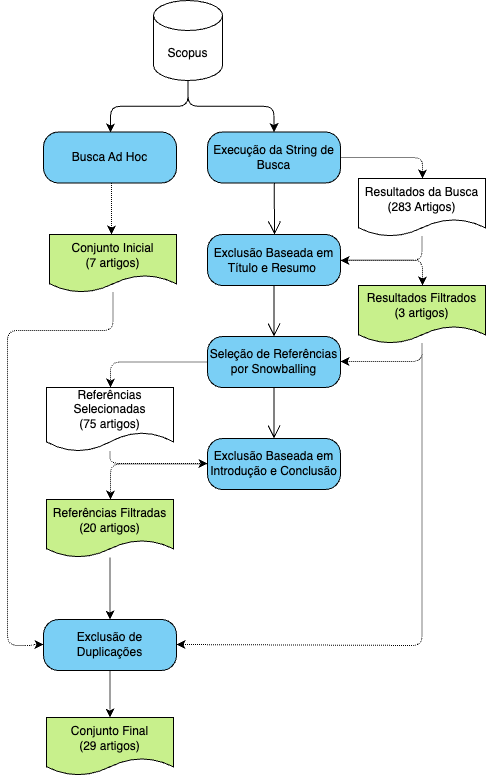
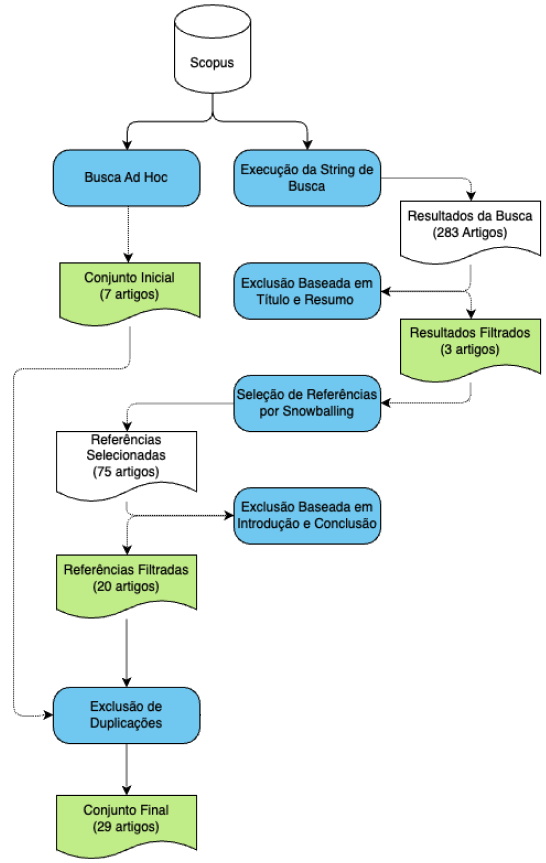
Ajustes reescrita nova fase do trabalho

Changed region(s): [[0.0308, 0.0, 1.0, 1.0], [0.0, 0.4324, 0.1232, 0.8649], [0.3388, 0.8031, 0.3696, 0.8649]]

diff --git a/editaveis/resumo.tex b/editaveis/resumo.tex
@@ -1,6 +1,6 @@
 \begin{resumo}
 
-Com o avanço das práticas de entrega contínua, influenciadas pela metodologia \textit{Lean Startup}, as empresas de \textit{software} têm reduzido cada vez mais o tempo entre os lançamentos de novas versões de seus produtos. Em muitas organizações, o \textit{feedback} dos usuários é obtido de forma lenta e pouco sistematizada, o que dificulta uma avaliação precisa do valor entregue pelas funcionalidades desenvolvidas. Nesse contexto, a prática da Experimentação Contínua tem se tornado um padrão nas grandes empresas, utilizando experimentos científicos para validar o produto com base em dados empíricos de uso de suas plataformas. Isso auxilia os gerentes de produto a tomarem decisões fundamentadas em dados, garantindo a qualidade do \textit{software} e o alinhamento com as necessidades reais dos usuários. Considerando esse cenário, este estudo visa compreender as atividades e técnicas necessárias para a sistematização de um processo de Desenvolvimento Orientado a Dados e, com base nessa compreensão, planejar a condução de um Estudo de Caso em uma organização privada brasileira, com o objetivo de aplicar esse processo e observar seu desempenho no apoio à tomada de decisões entre diferentes versões de um produto de \textit{software}.
+Com o avanço das práticas de entrega contínua, influenciadas pela metodologia \textit{Lean Startup}, as empresas de \textit{software} têm reduzido cada vez mais o tempo entre os lançamentos de novas versões de seus produtos. Em muitas organizações, o \textit{feedback} dos usuários é obtido de forma lenta e pouco sistematizada, o que dificulta uma avaliação precisa do valor entregue pelas funcionalidades desenvolvidas. Nesse contexto, a prática da Experimentação Contínua tem se tornado um padrão nas grandes empresas, utilizando experimentos científicos para validar o produto com base em dados empíricos de uso de suas plataformas. Isso auxilia os gerentes de produto a tomarem decisões fundamentadas em dados, garantindo a qualidade do \textit{software} e o alinhamento com as necessidades reais dos usuários. Considerando esse cenário, este estudo teve como objetivo compreender as atividades e técnicas necessárias para a sistematização de um processo de Desenvolvimento Orientado a Dados. Com base nessa compreensão, foi planejada e conduzida a execução de um Estudo de Caso em uma organização privada brasileira, com o intuito de aplicar esse processo e avaliar seu desempenho no apoio à tomada de decisões entre diferentes versões de um produto de software. São apresentados o planejamento e os resultados do estudo, demonstrando como o processo foi executado, suas implicações, limitações, ameaças à validade e oportunidades para trabalhos futuros.
 
 \vspace{\onelineskip}
 

diff --git a/editaveis/abstract.tex b/editaveis/abstract.tex
@@ -1,7 +1,7 @@
 \begin{resumo}[Abstract]
  \begin{otherlanguage*}{english}
 
-With the advancement of continuous delivery practices influenced by the \textit{Lean Startup} methodology, software companies have been shortening their development cycles, releasing new versions of their products at an increasingly rapid pace. In many organizations, the user feedback process is often slow and unsystematic, making it difficult to accurately assess the value delivered by the developed features. In this context, the practice of Continuous Experimentation is becoming a standard in large companies, utilizing controlled experiments to validate products based on empirical usage data. This helps product managers make data-driven decisions, ensuring the quality and alignment of the software with users' actual needs. Considering this scenario, this study aims to understand the activities and techniques necessary to systematize a Data-Driven Development process. Based on this understanding, the study plans to conduct a Case Study in a private Brazilian organization, with the goal of applying this process and observing its performance in supporting decision-making between different versions of a software product.
+With the advancement of continuous delivery practices influenced by the \textit{Lean Startup} methodology, software companies have been shortening their development cycles, releasing new versions of their products at an increasingly rapid pace. In many organizations, the user feedback process is often slow and unsystematic, making it difficult to accurately assess the value delivered by the developed features. In this context, the practice of Continuous Experimentation is becoming a standard in large companies, utilizing controlled experiments to validate products based on empirical usage data. This helps product managers make data-driven decisions, ensuring the quality and alignment of the software with users' actual needs. In this context, this study aimed to identify the activities and techniques required to systematize a Data-Driven Development process. Basing on this understanding, a case study was designed and conducted within a private Brazilian organization. The goal was to apply this process and evaluate its effectiveness in supporting decision-making between different versions of a software product. The findings from the case study are presented, highlighting the performance of the proposed process, along with its limitations, threats to validity, and opportunities for future research.
 
 \vspace{\onelineskip}
 

diff --git a/editaveis/secao-introducao/cronograma.tex b/editaveis/secao-introducao/cronograma.tex
@@ -39,13 +39,13 @@ Esta subseção visa discriminar as atividades realizadas na primeira etapa do t
 \subsection{Atividades da Segunda Etapa}
 \label{cronograma2}
 
-Esta subseção visa apresentar as atividades planejadas para a segunda etapa deste trabalho,
+Esta subseção visa apresentar as atividades realizadas na segunda etapa deste trabalho,
 as apresentando em forma de fluxo na Figura \ref{fig:atividades_2} e as dispondo em forma de cronograma na Figura \ref{fig:cronograma_2}.
 
 \newpage
 
 \begin{figure}[h!]
-    \caption{Fluxo de Atividades Planejadas Para a Segunda Etapa da Monografia}
+    \caption{Fluxo de Atividades Realizadas na Segunda Etapa da Monografia}
     \centering
     \includegraphics[width=.9\linewidth]{figuras/atividades2.png}
     \text{Fonte: Autor}
@@ -53,7 +53,7 @@ as apresentando em forma de fluxo na Figura \ref{fig:atividades_2} e as dispondo
 \end{figure}
 
 \begin{figure}[h!]
-    \caption{Cronograma Planejado Para a Segunda Etapa da Monografia}
+    \caption{Cronograma Realizado na Segunda Etapa da Monografia}
     \centering
     \includegraphics[width=.9\linewidth]{figuras/cronograma2.png}
     \text{Fonte: Autor}

diff --git a/editaveis/proposta.tex b/editaveis/proposta.tex
@@ -1,4 +1,8 @@
-\chapter{Proposta de Estudo de Caso}
+\chapter{Estudo de Caso}
+
+Este capítulo apresenta o planejamento e a execução do estudo de caso, demonstrando como os resultados do mesmo endereçam a resposta à questão de pesquisa principal deste trabalho.
+
+\section{Proposta e Planejamento}
 \label{ch:proposta}
 
 Neste capítulo é apresentado o planejamento da fase de observação e experimentação  desta pesquisa, objeto da segunda fase deste Trabalho de Conclusão de Curso.
@@ -13,3 +17,18 @@ Neste capítulo é apresentado o planejamento da fase de observação e experime
 
 \input{editaveis/secao-proposta/instrumentacao}
 
+\section{Execução e Análise}
+
+\input{editaveis/secao-execucao/ideacao}
+
+\input{editaveis/secao-execucao/pre-estudo}
+
+\input{editaveis/secao-execucao/execucao}
+
+\input{editaveis/secao-execucao/analise}
+
+\input{editaveis/secao-execucao/coleta-opiniao}
+
+\input{editaveis/secao-execucao/resultados}
+
+\input{editaveis/secao-execucao/validade}

diff --git a/editaveis/secao-proposta/procedimentos.tex b/editaveis/secao-proposta/procedimentos.tex
@@ -1,4 +1,4 @@
-\section{Procedimentos}
+\subsection{Procedimentos}
 \label{sec:procedimentos}
 
 Neste trabalho foi proposto um processo que deve guiar o desenvolvimento durante a execução deste estudo de caso. A partir da revisão da literatura descrita em \ref{ch:revisao}, procurou-se compreender as atividades envolvidas na experimentação continua e encontrar modelos ou processos já existentes na literatura. 
@@ -31,7 +31,7 @@ Para a coleta de dados referentes aos resultados das atividades realizadas e com
 \end{figure}
 
 
-\subsection{Processo Proposto}
+\subsubsection{Processo Proposto}
 \label{subsec:fluxo}
 
 Aqui serão descritas as atividades, fases, papeis e artefatos do processo proposto. Determinadas atividades do processo são iterativas e devem/podem ser realizadas novamente caso necessário. Abaixo são descritas as atividades a serem realizadas, conforme apresentado na Figura \ref{fig:processo-novo}.

diff --git a/editaveis/condicao.tex b/editaveis/condicao.tex
@@ -9,6 +9,6 @@ Neste capítulo é apresentada uma visão geral das atividades já realizadas e 
 
 \input{editaveis/secao-condicao/proximospassos}
 
-\section{Resumo do Capítulo}
+% \section{Resumo do Capítulo}
 
-Este capítulo apresenta a condição atual das atividades deste trabalho, dos objetivos atingidos e pendentes e também as atividades a serem realizadas na próxima etapa. As Tabelas \ref{tab:atividades1} e \ref{tab:objetivos-especificos} explicitam as atividades e objetivos de acordo com sua condição e os artefatos resultados das etapas concluídas.
+% Este capítulo apresenta a condição atual das atividades deste trabalho, dos objetivos atingidos e pendentes e também as atividades a serem realizadas na próxima etapa. As Tabelas \ref{tab:atividades1} e \ref{tab:objetivos-especificos} explicitam as atividades e objetivos de acordo com sua condição e os artefatos resultados das etapas concluídas.

diff --git a/editaveis/secao-condicao/proximospassos.tex b/editaveis/secao-condicao/proximospassos.tex
@@ -1,3 +1,3 @@
-\section{Próximos Passos}
+\section{Trabalhos Futuros}
 
-Na segunda etapa, para a conclusão desta pesquisa, serão realizadas as atividades propostas no Capítulo \ref{ch:proposta}, em conjunto com os colaboradores participantes no desenvolvimento do produto sendo estudado. Finalizadas estas tarefas, os resultados obtidos serão analisados, documentados e apresentados. É planejado que esta execução siga o cronograma apresentado na Imagem \ref{fig:cronograma_2}.
+% Na segunda etapa, para a conclusão desta pesquisa, serão realizadas as atividades propostas no Capítulo \ref{ch:proposta}, em conjunto com os colaboradores participantes no desenvolvimento do produto sendo estudado. Finalizadas estas tarefas, os resultados obtidos serão analisados, documentados e apresentados. É planejado que esta execução siga o cronograma apresentado na Imagem \ref{fig:cronograma_2}.

diff --git a/editaveis/agradecimentos.tex b/editaveis/agradecimentos.tex
@@ -1,5 +1,5 @@
 \begin{agradecimentos}
-   % Gostaria de agradecer primeiramente aos meus pais e minha tia, Manuel Junior da Silva Sena, Maria Alice Florêncio e Maria de Fátima Florêncio. Meus guardiões neste mundo, que abriram os meus caminhos e sangraram para que eu pudesse sorrir. 
+   % Gostaria de agradecer primeiramente aos meus guardiões, Maria Alice Florêncio, Manuel Junior da Silva Sena e Maria de Fátima Florêncio. Sem eles, eu não teria a capacidade de sonhar e nem a possibilidade de realizar nada em minha vida. Seus sacrifícios permitiram que eu vivesse a melhor vida que eu pudesse viver.
    
    % Aos meus irmãos, Pedro Henrique da Silva Liberato, Marília Florêncio Sena e Ayrton Leonam Florêncio Sena, que, de diferentes maneiras, fazem com que eu acredite em mim mesmo e me inspiram todos os dias a ser uma pessoa melhor. 
    

diff --git a/editaveis/secao-proposta/analise.tex b/editaveis/secao-proposta/analise.tex
@@ -1,4 +1,4 @@
-\section{Análise de Dados}
+\subsection{Análise de Dados}
 
 
 Antes de testes inferenciais, será realizada uma análise estatística descritiva das amostras, fundamental para compreender a natureza dos dados (Seção \ref{subsec:descritiva}). Esta etapa permite encontrar possívels \textit{outliers} (valores atípicos) e anomalias que possam enviesar os resultados. Esta análise oferece uma visão geral das tendências centrais e dispersão dos dados através de valores como a média, mediana, desvio padrão e distribuição do conjunto. Também serão utilizados métodos de representação gráfica, como \textit{boxplots} ou histogramas para análise da distribuição da amostra. Toda esta análise influência diretamente no teste estatístico adequado.

diff --git a/editaveis/secao-execucao/execucao.tex b/editaveis/secao-execucao/execucao.tex
@@ -1,0 +1,1 @@
+\subsection{Desenvolvimento do Tratamento e Execução do Experimento}

diff --git a/editaveis/secao-execucao/analise.tex b/editaveis/secao-execucao/analise.tex
@@ -1,0 +1,1 @@
+\subsection{Análise de Dados e Tomada de Decisão}

diff --git a/editaveis/secao-execucao/pre-estudo.tex b/editaveis/secao-execucao/pre-estudo.tex
@@ -1,0 +1,1 @@
+\subsection{Pré-estudo da Hipótese Escolhida}
